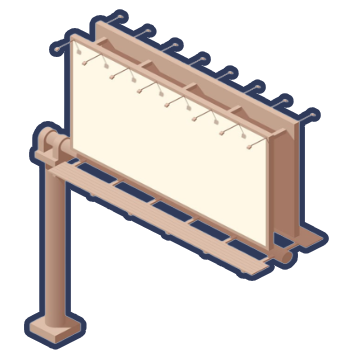
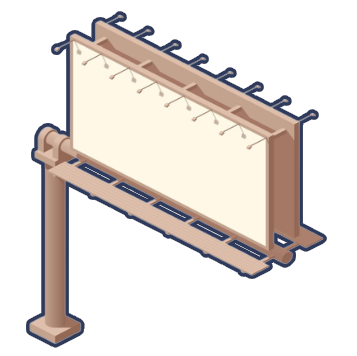
billboard graphics fix

diff --git a/src/HonkTrooper/HonkTrooper/Pages/HonkBomberPage.xaml.cs b/src/HonkTrooper/HonkTrooper/Pages/HonkBomberPage.xaml.cs
@@ -924,7 +924,7 @@ namespace HonkTrooper
                 roadSidePatch.IsAnimating = true;
 
                 roadSidePatch.SetPosition(
-                    left: (Constants.DEFAULT_SCENE_WIDTH / 2.2 - roadSidePatch.Width - 5),
+                    left: (Constants.DEFAULT_SCENE_WIDTH / 2.25 - roadSidePatch.Width - 5),
                     top: roadSidePatch.Height * -1,
                     z: 0);
 
@@ -1173,7 +1173,7 @@ namespace HonkTrooper
                 roadSideLamp.IsAnimating = true;
 
                 roadSideLamp.SetPosition(
-                  left: (Constants.DEFAULT_SCENE_WIDTH / 2.40 - roadSideLamp.Width) + 5,
+                  left: (Constants.DEFAULT_SCENE_WIDTH / 2.40 - roadSideLamp.Width) + 10,
                   top: ((roadSideLamp.Height * 1.5) * -1) + 5,
                   z: 3);
 
@@ -1260,7 +1260,7 @@ namespace HonkTrooper
                 roadSideBillboard.IsAnimating = true;
 
                 roadSideBillboard.SetPosition(
-                  left: (Constants.DEFAULT_SCENE_WIDTH / 2.2 - roadSideBillboard.Width) - 5,
+                  left: (Constants.DEFAULT_SCENE_WIDTH / 2.3 - roadSideBillboard.Width) - 10,
                   top: ((roadSideBillboard.Height * 1.5) * -1) - 10,
                   z: 2);
 

diff --git a/src/HonkTrooper/HonkTrooper/Constants.cs b/src/HonkTrooper/HonkTrooper/Constants.cs
@@ -50,7 +50,7 @@ namespace HonkTrooper
             new (ConstructType.ROAD_SIDE_PATCH, 150, 300),
             new (ConstructType.ROAD_SIDE_STRIPE, 15, 300),
             new (ConstructType.ROAD_SIDE_LAMP, 150, 150),
-            new (ConstructType.ROAD_SIDE_BILLBOARD, 350, 350),
+            new (ConstructType.ROAD_SIDE_BILLBOARD, 340, 340),
 
             new (ConstructType.DROP_SHADOW, 60, 25),
 
@@ -72,7 +72,7 @@ namespace HonkTrooper
 
             new (ConstructType.ROAD_SIDE_HEDGE, new Uri("ms-appx:///HonkTrooper/Assets/Images/hedge_1.png")),
 
-            new (ConstructType.ROAD_SIDE_BILLBOARD, new Uri("ms-appx:///HonkTrooper/Assets/Images/billboard_1.png")),
+            //new (ConstructType.ROAD_SIDE_BILLBOARD, new Uri("ms-appx:///HonkTrooper/Assets/Images/billboard_1.png")),
             new (ConstructType.ROAD_SIDE_BILLBOARD, new Uri("ms-appx:///HonkTrooper/Assets/Images/billboard_2.png")),
 
             new (ConstructType.VEHICLE_SMALL, new Uri("ms-appx:///HonkTrooper/Assets/Images/vehicle_small_1.png")),
